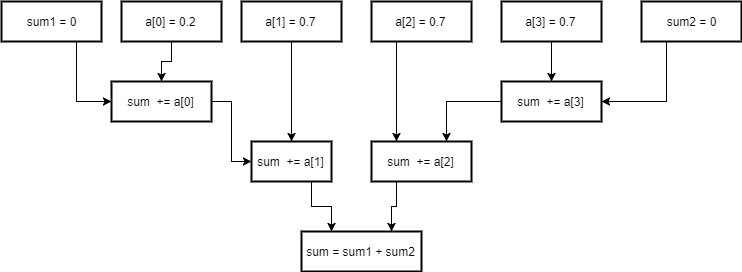
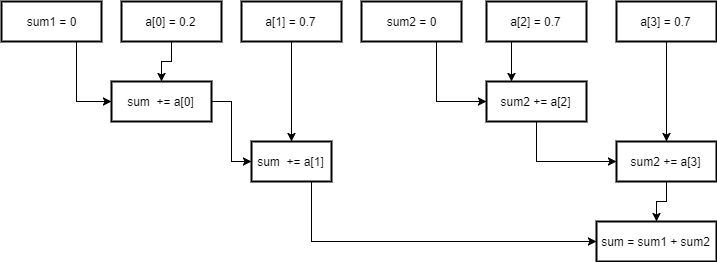
updated cpu-arch

diff --git a/coding_posts/cpu-archetecture.md b/coding_posts/cpu-archetecture.md
@@ -72,11 +72,19 @@ This has a depth of 3, so we made it faster. You can generalize this process to 
 
 Hopefully you can believe that this is a general and powerful method of identifying parallelism. In fact, we are very close to an nice theory of optimal parallelism.
 
-Definition of degree of parallelism in a dependency graph:
+The famous complexity textbook *Introduction to the Theory of Computation* by Michael Sipser uses the following definition of parallel complexity.
+
+> __Parrelell time complexity__ of a boolean circuit is its depth, or the longest distance from an input variable to the output gates
+
+All sorts of nice things arise out of this definition. You can define optimal speedup with a parallel processor to be:
 
 $$\frac{\text{size}}{\text{depth}}$$
 
-This means that in theory, exercising parallelism can result in a speedup of that amount.
+Which is easy to analyses with napkin based calculations.
+
+You can also get some nice theoretical results out of this (Sipser focuses on this).
+
+So I think we are on to something really core to what we mean by parallelism.
 
 So now that we know what to look for when trying to parallelize things, lets go back to the hardware.
 
@@ -86,7 +94,9 @@ Hardware is essentially an interpreter. Conceptually, it reads the code 1 line a
 
 So, as you might expect, the way computers look at code is as a sequence of commands. The syntax reflects this concept.
 
-As I also want some real world examples, I will introduce you to the basics surrounding x86 assembly, which is ubiquitous in desktop and laptop CPUs. Not of any fondness of the language, but because you can actually execute it on your machine.
+As I also want some real world examples, I will introduce you to the basics surrounding x86 assembly, which is ubiquitous in desktop and laptop CPUs. Not of any fondness of the language (it is unnecessarily complex), but because you can actually execute it on your machine.
+
+I do have a warning: x86 is complicated, and there aren't good tutorials like there are with C. You won't be able to learn everything without much months of effort. Hopefully I can convince you to try to reason about assembly at a higher level, and not really worry about the details for now (your compiler can take care of that). So when reading the next couple sections, try to take it lightly, and get a feel for how it looks.
 
 x86 in GAS (GNU Assembly syntax) looks more or less like the following:
 
@@ -119,17 +129,19 @@ The `float` type in C is 32 bits, the `double` type is 64 bits.
 
 Some examples
 
-    movps 16(%rcx), %xmm0 //move packed
-    addss %xmm0, %xmm1
-    movss %xmm0, 16(%rcx)
+    movps 16(%rcx), %xmm0   //move packed (128 bits of) data starting from 16 bytes off %rcx to %xmm0
+    addss %xmm0, %xmm1      //add first single precision float (32 bits) of %xmm0 to first one in %xmm1
+    movss %xmm0, 16(%rcx)   //move first 32 bits of %xmm0 to 16 byes off %rcx
 
 There is also some archaic floating point arithmetic which is horribly slow, but it can work on 80 bit floats. If you ever see anything like `fld` or `fadd`, then you can check it out [here](https://docs.oracle.com/cd/E18752_01/html/817-5477/eoizy.html).
 
+There is a lot of other things you can learn, which may be important. There are integer vector instructions as well. And vector instructions are not the only important ones: `mulx` is a recently added instruction for cryptography, and it operates on regular registers.
+
 ### References
 
-I don't recommend spending lots of time learning assembly. You can do almost everything you can with assembly with compiler intrinsics ([decent overview on microsoft's site](https://msdn.microsoft.com/en-us/library/26td21ds.aspx)).
+You can do almost everything you can with assembly with compiler intrinsics ([decent overview on microsoft's site](https://msdn.microsoft.com/en-us/library/26td21ds.aspx)).
 
-Here is a good and complete reference on intel's intrinsics, which are implemented on gcc, clang, vcc, and icc: https://software.intel.com/sites/landingpage/IntrinsicsGuide/
+Here is an amazing reference on intel's intrinsics. I have learned more about x86 from this site than from any assembly reference: https://software.intel.com/sites/landingpage/IntrinsicsGuide/. This is implemented on gcc, clang, vcc, and icc.
 
 On the other hand, if you really do want to write x86 assembly, then you will need good references. Here are some of the more complete ones.
 
@@ -139,9 +151,9 @@ Scraped from official docs: http://www.felixcloutier.com/x86/
 
 Official intel docs, many pdf volumes: https://software.intel.com/en-us/articles/intel-sdm
 
-### x86 Example
+## x86 Example
 
-How do you get assembly? You can write it yourself, of course. But people rarely feel the need to these days, because the compiler generates it for them. But c and c++ programmers often look at what their compiler is generating. After all, sometimes the compiler isn't perfect, and so it is nice to see what it is actually generating, in case it screws up.
+How do you get assembly? You can write it yourself, of course. But people rarely feel the need to these days, because the compiler generates it for them. However, c and c++ programmers often look at what their compiler is generating. After all, sometimes the compiler isn't perfect, and so it is nice to see what it is actually generating, in case you think it might be screwing up.
 
 To get gcc to generate assembly, you call
 
@@ -197,13 +209,13 @@ Why is this slower? Well, because it is looping with the size of the vector. So 
 
 But remember that the point of this paper is about  dependency graphs and parallelism. So what is the dependency graph of this loop?
 
-Well, exploring this really requires us to go back to the hardware again.
+Well, exploring this requires us to go back to the hardware again.
 
 ## Instruction level parallelism
 
 In a conceptual perspective, when designing circuits and software, there is only kind of one dependency: data dependencies (as talked about in the beginning).
 
-But when making programmable machines in the Von Neumann  architecture, there are a lot more dependencies and everything becomes much more complicated.
+But when making programmable machines in the Von Neumann architecture, there are a lot more dependencies and everything becomes much more complicated.
 
 Lets look at an example of some code, and the dependencies it has.
 
@@ -225,14 +237,9 @@ The main one is called branch prediction, and we can get to that later.
 
 These are the closest to data dependencies. We simply need to be able to access data that we have stored at some point.
 
-Unfortunately, accessing data is really, really slow. These days, a single access to data on global RAM usually takes around 100 clock cycles.
+Unfortunately, accessing data is really, really slow. These days, a single access to data on global RAM usually takes around 100 clock cycles. We are getting data all the time, so really, we could be spending ~99% of the time just fetching data.
 
-We are getting data all the time, so really, we could be spending >99% of the time just fetching data. 
-
-The problem here is the Von Neumann architecture describes a shared, randomly accessible memory. And people have decided that they want removable RAM. And for security reasons,  So in the worst case, the message to request the data has to leave the CPU, go through the motherboard, into the ram chip, get processed,
-
-Fortunately, for fast software, and unfortunately for those of us trying to study it, we have come up with very clever ways of decreasing memory latency and throughput.
-
+And that is only the start of the massive performance problems with memory. The details are out of the scope of this paper, but I think it is a really fun and cool field that is at least as important as parallelism and dependency analysis. Ulrich Drepper wrote a free online book describing in detail everything you could ever want to know about memory https://www.akkadia.org/drepper/cpumemory.pdf.
 
 ### Circuit dependencies
 

diff --git a/coding_posts/refractoring.md b/coding_posts/refractoring.md
@@ -41,9 +41,9 @@ Here is the formatted version. I am using the WebKit formatting, because it is c
 {% endhighlight %}
 </div>
 
-[link to code](/raw_code/refractoring/full-code). You might want to open this up in another tab, as I'll be referencing line numbers, and you will want to look at it quite a bit.
+[link to code](/link_only/refractoring/full-code). You might want to open this up in another tab, as I'll be referencing line numbers, and you will want to look at it quite a bit.
 
-Or [raw code](/raw_code/refractoring/code-no-formatting) if you want to copy it into an editor.
+Or [raw code](/link_only/refractoring/code-no-formatting) if you want to copy it into an editor.
 
 ### Process
 
